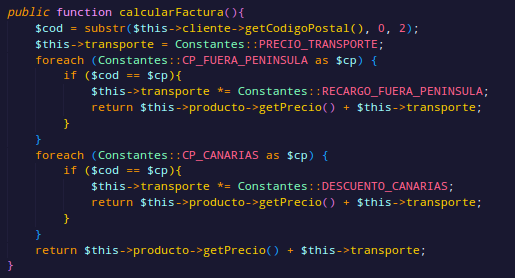
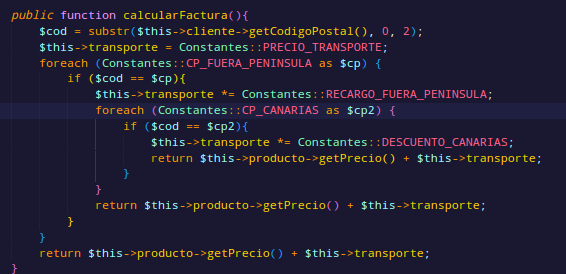
Falta el diagrama de navegacion

diff --git a/src/app/POO/Util/Constantes.php b/src/app/POO/Util/Constantes.php
@@ -3,7 +3,7 @@
 	include_once "vendor/autoload.php";
 	class Constantes{
 		const CP_CANARIAS = ["35", "38"];
-		const CP_FUERA_PENINSULA = ["07", "51", "52"];
+		const CP_FUERA_PENINSULA = ["07", "51", "52", "35", "38"];
 		const PRECIO_TRANSPORTE = 100;
 		const RECARGO_FUERA_PENINSULA = 1.05;
 		const DESCUENTO_CANARIAS = 0.80;
